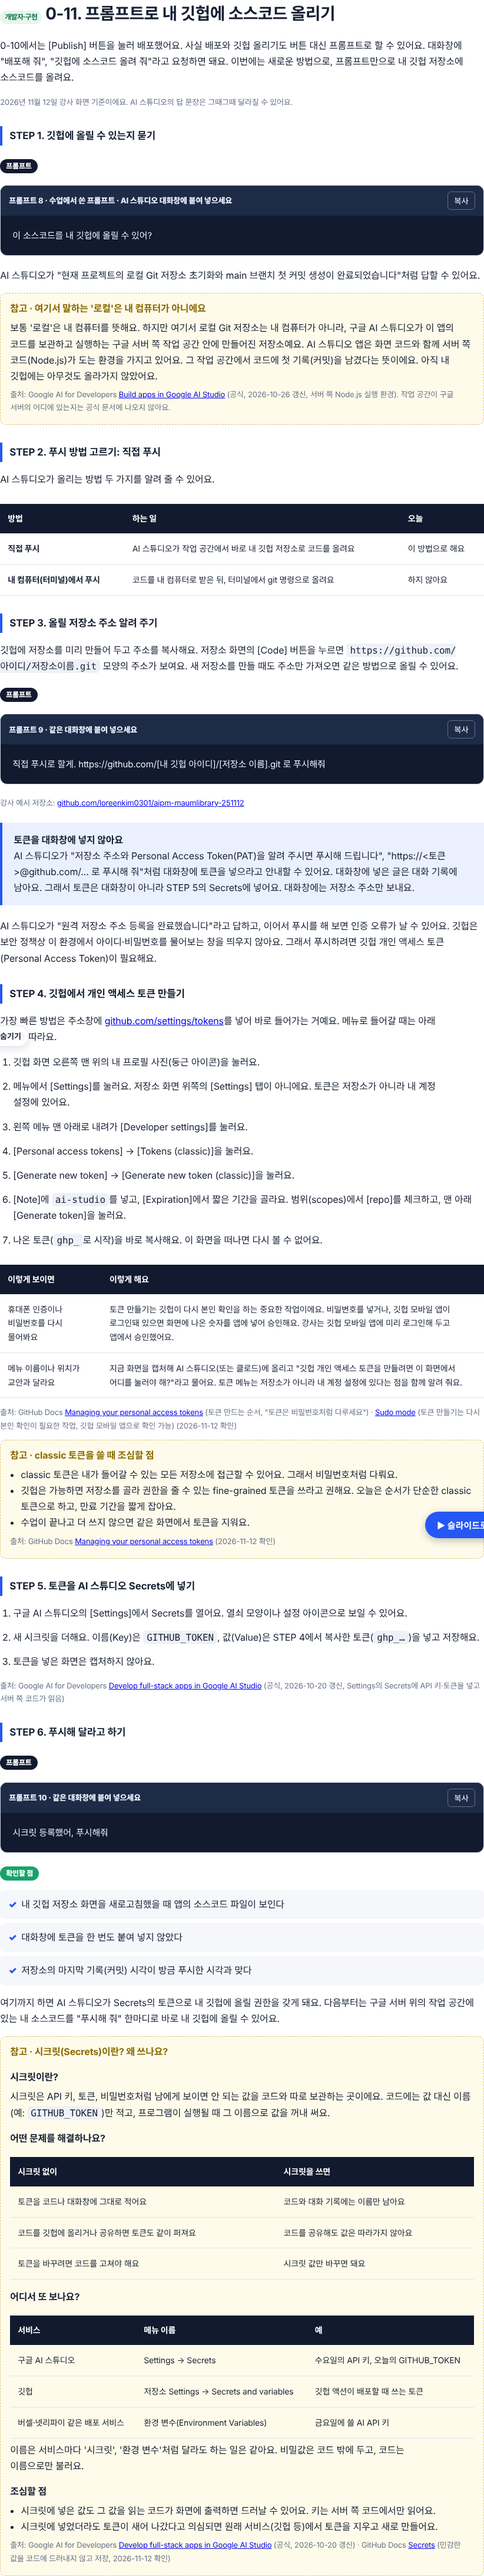
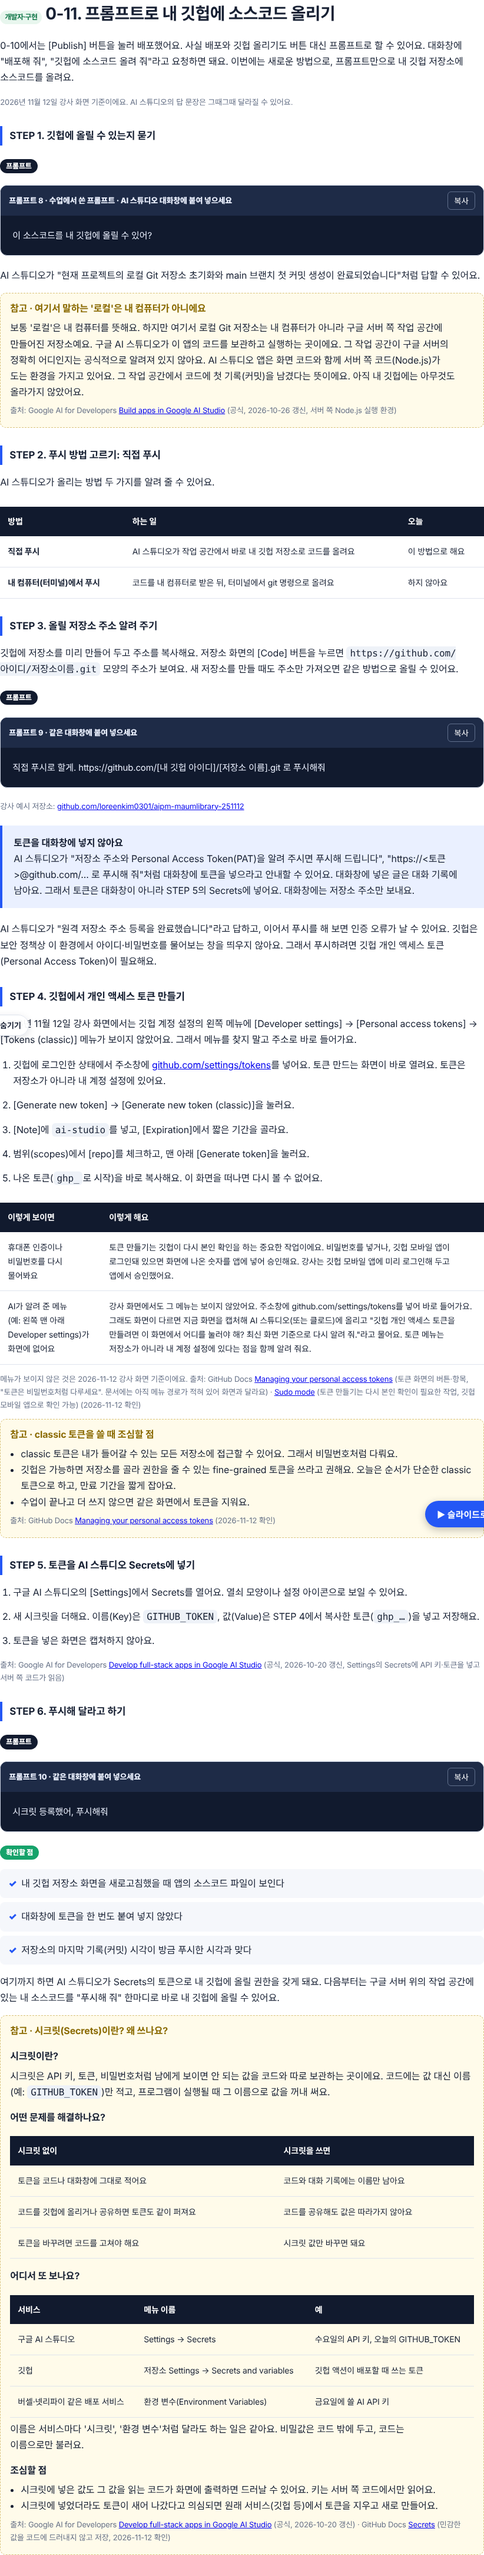
3주차 DAY 4 0-11: 토큰 메뉴가 보이지 않은 강사 확인 반영, 주소로 바로 들어가는 순서로 변경
Claude-Session: https://claude.ai/code/session_01C4uqyEJDMMad4kDgLNX9Dk

diff --git a/261109-ai-pm-week3/d4-claude-code-chatbot.html b/261109-ai-pm-week3/d4-claude-code-chatbot.html
@@ -595,21 +595,19 @@ aside nav a.active{border-left-color:var(--blue)}
 <p>AI 스튜디오가 "원격 저장소 주소 등록을 완료했습니다"라고 답하고, 이어서 푸시를 해 보면 인증 오류가 날 수 있어요. 깃헙은 보안 정책상 이 환경에서 아이디·비밀번호를 물어보는 창을 띄우지 않아요. 그래서 푸시하려면 깃헙 개인 액세스 토큰(Personal Access Token)이 필요해요.</p>
 
 <p><b>STEP 4. 깃헙에서 개인 액세스 토큰 만들기</b></p>
-<p>가장 빠른 방법은 주소창에 <a href="https://github.com/settings/tokens" target="_blank" rel="noopener">github.com/settings/tokens</a>를 넣어 바로 들어가는 거예요. 메뉴로 들어갈 때는 아래 순서를 따라요.</p>
+<p>2026년 11월 12일 강사 화면에서는 깃헙 계정 설정의 왼쪽 메뉴에 [Developer settings] → [Personal access tokens] → [Tokens (classic)] 메뉴가 보이지 않았어요. 그래서 메뉴를 찾지 말고 주소로 바로 들어가요.</p>
 <ol class="do-steps">
-<li><p>깃헙 화면 오른쪽 맨 위의 내 프로필 사진(둥근 아이콘)을 눌러요.</p></li>
-<li><p>메뉴에서 [Settings]를 눌러요. 저장소 화면 위쪽의 [Settings] 탭이 아니에요. 토큰은 저장소가 아니라 내 계정 설정에 있어요.</p></li>
-<li><p>왼쪽 메뉴 맨 아래로 내려가 [Developer settings]를 눌러요.</p></li>
-<li><p>[Personal access tokens] → [Tokens (classic)]을 눌러요.</p></li>
+<li><p>깃헙에 로그인한 상태에서 주소창에 <a href="https://github.com/settings/tokens" target="_blank" rel="noopener">github.com/settings/tokens</a>를 넣어요. 토큰 만드는 화면이 바로 열려요. 토큰은 저장소가 아니라 내 계정 설정에 있어요.</p></li>
 <li><p>[Generate new token] → [Generate new token (classic)]을 눌러요.</p></li>
-<li><p>[Note]에 <code class="inline">ai-studio</code>를 넣고, [Expiration]에서 짧은 기간을 골라요. 범위(scopes)에서 [repo]를 체크하고, 맨 아래 [Generate token]을 눌러요.</p></li>
+<li><p>[Note]에 <code class="inline">ai-studio</code>를 넣고, [Expiration]에서 짧은 기간을 골라요.</p></li>
+<li><p>범위(scopes)에서 [repo]를 체크하고, 맨 아래 [Generate token]을 눌러요.</p></li>
 <li><p>나온 토큰(<code class="inline">ghp_</code>로 시작)을 바로 복사해요. 이 화면을 떠나면 다시 볼 수 없어요.</p></li>
 </ol>
 <div class="table-wrap"><table><tr><th>이렇게 보이면</th><th>이렇게 해요</th></tr>
 <tr><td>휴대폰 인증이나 비밀번호를 다시 물어봐요</td><td>토큰 만들기는 깃헙이 다시 본인 확인을 하는 중요한 작업이에요. 비밀번호를 넣거나, 깃헙 모바일 앱이 로그인돼 있으면 화면에 나온 숫자를 앱에 넣어 승인해요. 강사는 깃헙 모바일 앱에 미리 로그인해 두고 앱에서 승인했어요.</td></tr>
-<tr><td>메뉴 이름이나 위치가 교안과 달라요</td><td>지금 화면을 캡처해 AI 스튜디오(또는 클로드)에 올리고 "깃헙 개인 액세스 토큰을 만들려면 이 화면에서 어디를 눌러야 해?"라고 물어요. 토큰 메뉴는 저장소가 아니라 내 계정 설정에 있다는 점을 함께 알려 줘요.</td></tr>
+<tr><td>AI가 알려 준 메뉴(예: 왼쪽 맨 아래 Developer settings)가 화면에 없어요</td><td>강사 화면에서도 그 메뉴는 보이지 않았어요. 주소창에 github.com/settings/tokens를 넣어 바로 들어가요. 그래도 화면이 다르면 지금 화면을 캡처해 AI 스튜디오(또는 클로드)에 올리고 "깃헙 개인 액세스 토큰을 만들려면 이 화면에서 어디를 눌러야 해? 최신 화면 기준으로 다시 알려 줘."라고 물어요. 토큰 메뉴는 저장소가 아니라 내 계정 설정에 있다는 점을 함께 알려 줘요.</td></tr>
 </table></div>
-<p class="source-note">출처: GitHub Docs <a href="https://docs.github.com/en/authentication/keeping-your-account-and-data-secure/managing-your-personal-access-tokens" target="_blank" rel="noopener">Managing your personal access tokens</a> (토큰 만드는 순서, "토큰은 비밀번호처럼 다루세요") · <a href="https://docs.github.com/en/authentication/keeping-your-account-and-data-secure/sudo-mode" target="_blank" rel="noopener">Sudo mode</a> (토큰 만들기는 다시 본인 확인이 필요한 작업, 깃헙 모바일 앱으로 확인 가능) (2026-11-12 확인)</p>
+<p class="source-note">메뉴가 보이지 않은 것은 2026-11-12 강사 화면 기준이에요. 출처: GitHub Docs <a href="https://docs.github.com/en/authentication/keeping-your-account-and-data-secure/managing-your-personal-access-tokens" target="_blank" rel="noopener">Managing your personal access tokens</a> (토큰 화면의 버튼·항목, "토큰은 비밀번호처럼 다루세요". 문서에는 아직 메뉴 경로가 적혀 있어 화면과 달라요) · <a href="https://docs.github.com/en/authentication/keeping-your-account-and-data-secure/sudo-mode" target="_blank" rel="noopener">Sudo mode</a> (토큰 만들기는 다시 본인 확인이 필요한 작업, 깃헙 모바일 앱으로 확인 가능) (2026-11-12 확인)</p>
 <div class="ref-box"><b>참고 · classic 토큰을 쓸 때 조심할 점</b>
 <ul>
 <li>classic 토큰은 내가 들어갈 수 있는 모든 저장소에 접근할 수 있어요. 그래서 비밀번호처럼 다뤄요.</li>
